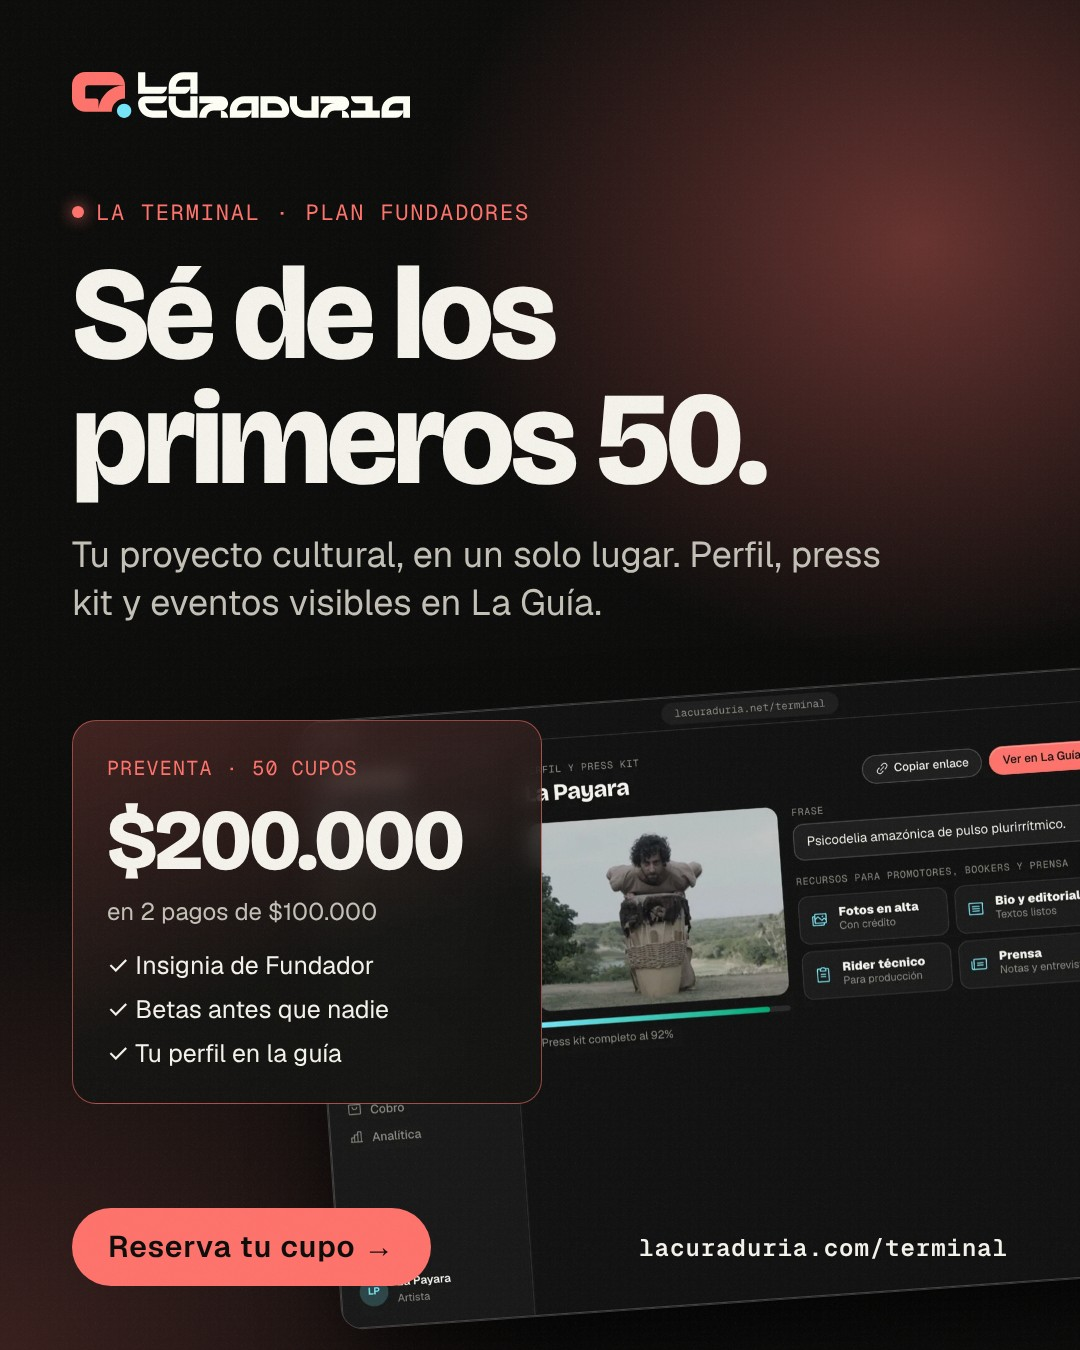
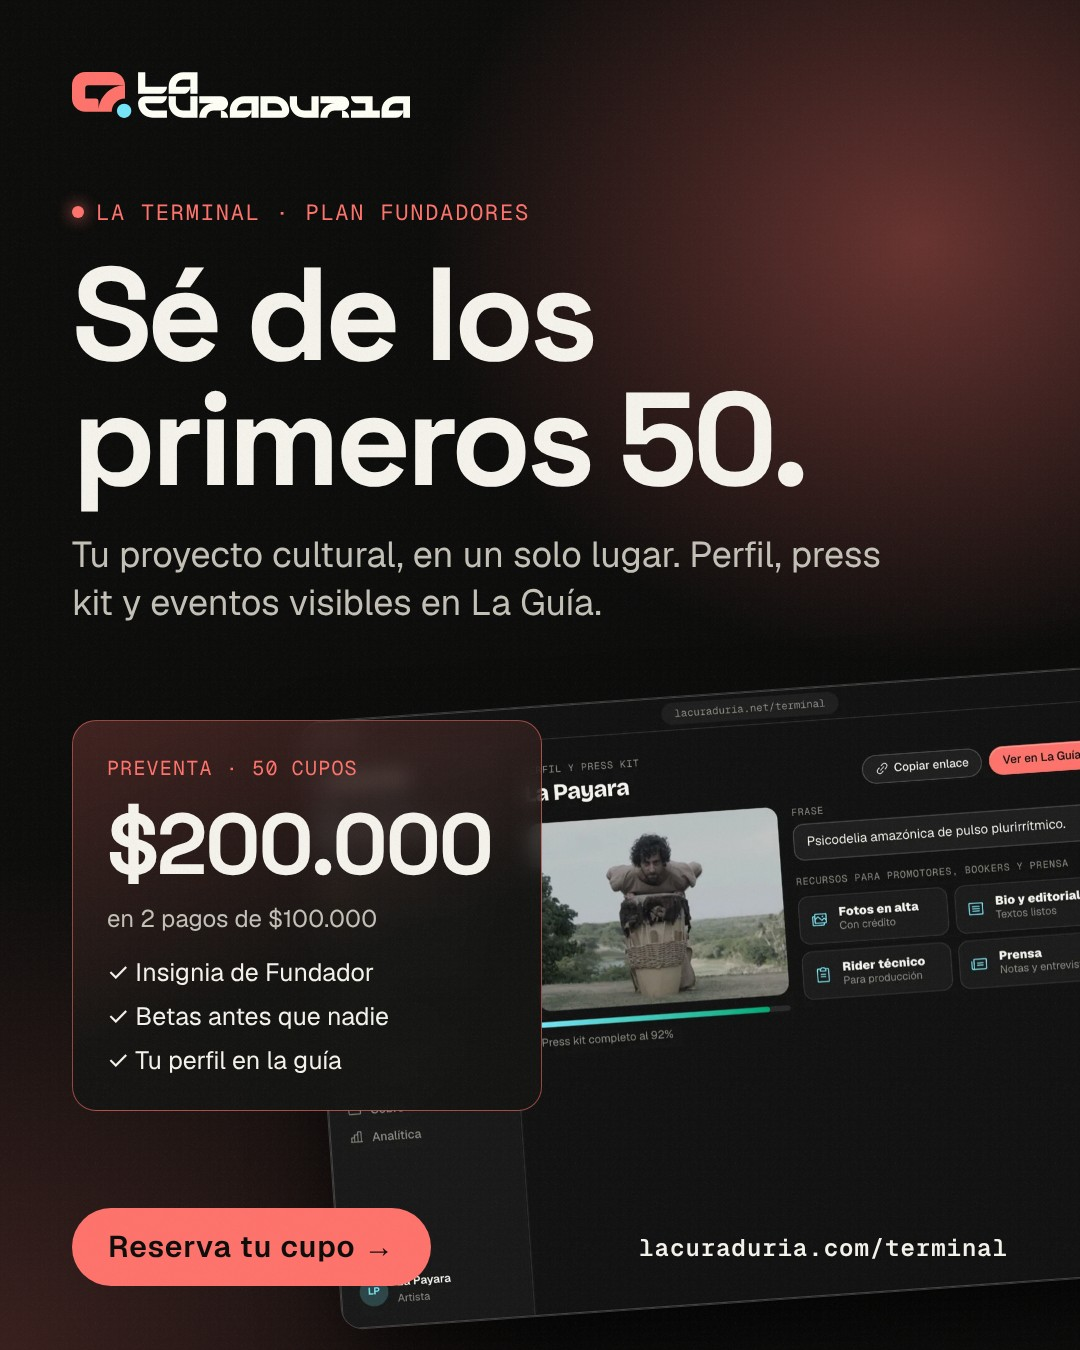
Títulos en Space Grotesk (antes Bricolage), también en las piezas de campaña
Claude-Session: https://claude.ai/code/session_013ns4ecBsLFtjFuJTgQGV7z

Changed region(s): [[0.0611, 0.1867, 0.7639, 0.3733], [0.0917, 0.5911, 0.4583, 0.8089], [0.3361, 0.8089, 0.3667, 0.84]]

diff --git a/estilo/landing.css b/estilo/landing.css
@@ -5,7 +5,7 @@
    Lectura del encargo: rediseño completo de la landing de una
    plataforma cultural de Bogotá para artistas, gestores,
    promotores y público de la escena. Lenguaje editorial nocturno
-   (cartel de fiesta + revista), CSS nativo, Bricolage como display
+   (cartel de fiesta + revista), CSS nativo, Space Grotesk como display
    de marca, un solo acento: el coral.
    Diales: asimetría 7 · movimiento 6 · densidad 3.
 
@@ -16,7 +16,7 @@
    - Formas: superficies e imágenes rectas (0); lo que se pulsa
      (botones, pestañas, campos) en píldora; los teléfonos con la
      curva de un teléfono, porque representan uno.
-   - Tipografías alojadas aquí (fuentes/): Bricolage Grotesque en
+   - Tipografías alojadas aquí (fuentes/): Space Grotesk en
      titulares, Geist en texto, Geist Mono solo en etiquetas.
 
    Va después de ds/tokens.css: redefine sus valores para que las
@@ -25,10 +25,11 @@
    ============================================================ */
 
 /* ── Tipografías ─────────────────────────────────────────────── */
+/* Títulos: Space Grotesk (11 oct 2026, decisión de Nicolás; antes Bricolage Grotesque). Va hasta 700. */
 @font-face {
-  font-family: 'Bricolage Grotesque';
-  src: url('/fuentes/bricolage-grotesque.woff2') format('woff2-variations');
-  font-weight: 200 800;
+  font-family: 'Space Grotesk';
+  src: url('/fuentes/space-grotesk.woff2') format('woff2-variations'), url('/fuentes/space-grotesk.woff2') format('woff2');
+  font-weight: 300 700;
   font-display: swap;
 }
 @font-face {
@@ -74,7 +75,7 @@
   --lc-accent: var(--t-accent);
   /* Superficies rectas también en las pantallas internas. */
   --lc-radius-sm: 0; --lc-radius-md: 0; --lc-radius-lg: 0; --lc-radius-tarjeta: 0;
-  --lc-font-display: 'Bricolage Grotesque', 'Helvetica Neue', Arial, sans-serif;
+  --lc-font-display: 'Space Grotesk', 'Helvetica Neue', Arial, sans-serif;
   --lc-font-body:    'Geist', 'Helvetica Neue', Arial, sans-serif;
   --lc-font-mono:    'Geist Mono', ui-monospace, Menlo, monospace;
 

diff --git a/campana/pieza-1-fundadores.html b/campana/pieza-1-fundadores.html
@@ -1,5 +1,5 @@
 <!doctype html><html lang="es"><head><meta charset="utf-8"><style>
-@font-face{font-family:B;src:url('/fuentes/bricolage-grotesque.woff2') format('woff2-variations');font-weight:200 800}
+@font-face{font-family:B;src:url('/fuentes/space-grotesk.woff2') format('woff2');font-weight:300 700}
 @font-face{font-family:G;src:url('/fuentes/geist.woff2') format('woff2-variations');font-weight:100 900}
 @font-face{font-family:M;src:url('/fuentes/geist-mono.woff2') format('woff2-variations');font-weight:100 900}
 *{box-sizing:border-box;margin:0}
@@ -11,7 +11,7 @@ html,body{width:1080px;height:1350px;background:#0C0C0B;overflow:hidden}
 .logo svg{height:46px;width:auto;display:block}
 .eti{font-family:M;font-size:22px;letter-spacing:.08em;text-transform:uppercase;color:#FF736C;display:flex;align-items:center;gap:12px}
 .eti::before{content:"";width:12px;height:12px;border-radius:50%;background:currentColor;box-shadow:0 0 16px currentColor}
-h1{font-family:B;font-weight:800;letter-spacing:-.035em;line-height:.95}
+h1{font-family:B;font-weight:700;letter-spacing:-.04em;line-height:.95}
 .pie{position:absolute;left:72px;right:72px;bottom:64px;display:flex;justify-content:space-between;align-items:center;font-family:M;font-size:24px;letter-spacing:.04em;color:#C4C1B7}
 .pie b{color:#F5F3EC;font-weight:600}
 .btn{display:inline-flex;align-items:center;gap:14px;background:#FF736C;color:#0C0C0B;font:600 30px/1 G;padding:24px 36px;border-radius:999px}

diff --git a/campana/pieza-2-guia.html b/campana/pieza-2-guia.html
@@ -1,5 +1,5 @@
 <!doctype html><html lang="es"><head><meta charset="utf-8"><style>
-@font-face{font-family:B;src:url('/fuentes/bricolage-grotesque.woff2') format('woff2-variations');font-weight:200 800}
+@font-face{font-family:B;src:url('/fuentes/space-grotesk.woff2') format('woff2');font-weight:300 700}
 @font-face{font-family:G;src:url('/fuentes/geist.woff2') format('woff2-variations');font-weight:100 900}
 @font-face{font-family:M;src:url('/fuentes/geist-mono.woff2') format('woff2-variations');font-weight:100 900}
 *{box-sizing:border-box;margin:0}
@@ -11,7 +11,7 @@ html,body{width:1080px;height:1350px;background:#0C0C0B;overflow:hidden}
 .logo svg{height:46px;width:auto;display:block}
 .eti{font-family:M;font-size:22px;letter-spacing:.08em;text-transform:uppercase;color:#FF736C;display:flex;align-items:center;gap:12px}
 .eti::before{content:"";width:12px;height:12px;border-radius:50%;background:currentColor;box-shadow:0 0 16px currentColor}
-h1{font-family:B;font-weight:800;letter-spacing:-.035em;line-height:.95}
+h1{font-family:B;font-weight:700;letter-spacing:-.04em;line-height:.95}
 .pie{position:absolute;left:72px;right:72px;bottom:64px;display:flex;justify-content:space-between;align-items:center;font-family:M;font-size:24px;letter-spacing:.04em;color:#C4C1B7}
 .pie b{color:#F5F3EC;font-weight:600}
 .btn{display:inline-flex;align-items:center;gap:14px;background:#FF736C;color:#0C0C0B;font:600 30px/1 G;padding:24px 36px;border-radius:999px}

diff --git a/index.html b/index.html
@@ -22,9 +22,9 @@
 <!-- Sistema de diseño de la webapp (copia): ver ds/LEEME.md -->
 <link rel="stylesheet" href="/ds/tokens.css">
 <link rel="stylesheet" href="/ds/componentes.css">
-<link rel="preload" href="/fuentes/bricolage-grotesque.woff2" as="font" type="font/woff2" crossorigin>
+<link rel="preload" href="/fuentes/space-grotesk.woff2" as="font" type="font/woff2" crossorigin>
 <link rel="preload" href="/fuentes/geist.woff2" as="font" type="font/woff2" crossorigin>
-<link rel="stylesheet" href="/estilo/landing.css?v=20261010l">
+<link rel="stylesheet" href="/estilo/landing.css?v=20261011a">
 <link rel="stylesheet" href="/estilo/demo.css?v=20261010b">
 <!-- Medición: pega aquí el ID de Google Analytics 4 (G-XXXX) y el de la conversión de Google Ads (AW-XXXX/etiqueta). Vacíos, no se carga nada de Google. -->
 <meta name="lc-ga4" content="">

diff --git a/estilo/LEEME.md b/estilo/LEEME.md
@@ -30,7 +30,7 @@ Rediseño de la portada de la landing (`index.html`, pantalla `#pg-home`) hecho 
 | `estilo/demo.css`, `estilo/demo.js` | La demo del hero (8 oct): Pro en el computador y el Copiloto con un perfil en el teléfono, conectados. |
 | `img/demo/` | Fotos de artistas y flyers de eventos reales de lacuraduria.net que usa la demo. |
 | `estilo/landing.js` | Revelado al entrar en pantalla, logo de la barra y pestañas de «Para quién». No escucha el scroll. |
-| `fuentes/` | Bricolage Grotesque, Geist y Geist Mono (variables, subconjunto latino), alojadas aquí y no en Google Fonts. |
+| `fuentes/` | Space Grotesk, Geist y Geist Mono (Bricolage queda por si se vuelve) (variables, subconjunto latino), alojadas aquí y no en Google Fonts. |
 | `iconos/` | Íconos de Phosphor (regular). Van incrustados en el HTML. |
 | `img/producto/` | Capturas reales de lacuraduria.net (7 oct 2026): inicio y perfil en el teléfono, cartelera, artista destacado y perfil en escritorio. |
 
@@ -41,7 +41,7 @@ Rediseño de la portada de la landing (`index.html`, pantalla `#pg-home`) hecho 
 - **Vidrio (8 oct):** paneles de vidrio esmerilado (desenfoque, filo de luz de 1px, brillo interior y sombra) sobre una capa fija de auras coral con grano. Lo llevan la barra (cápsula flotante), el mosaico, las pestañas y su panel, el chat, los planes, el marco de la captura de artistas, el bisel de los teléfonos y los botones secundarios. El botón principal sigue en coral lleno. Quien tiene activada la opción de reducir transparencias ve paneles sólidos.
 - **Formas:** paneles de vidrio con esquinas de 20px, imágenes dentro a 14px, lo que se pulsa (botones, pestañas, campos) en píldora y los teléfonos con bisel. Las pantallas internas también se suavizan.
 - **Caché:** la hoja y el script llevan `?v=AAAAMMDD` en `index.html`. Al cambiarlos hay que subir ese número, o el navegador sigue mostrando la versión vieja.
-- **Tipografía:** Bricolage 800 en titulares, Geist en texto, Geist Mono solo en etiquetas.
+- **Tipografía:** Space Grotesk 700 en titulares (desde el 11 oct; antes Bricolage), Geist en texto, Geist Mono solo en etiquetas.
 - **Texto:** sin rayas largas (—). Se dejaron a propósito las del texto de confidencialidad del Investor Hub y las de los valores del formulario de inversión: lo primero es texto legal y lo segundo son datos que el formulario envía.
 
 ## La portada (versión del 8 oct)
